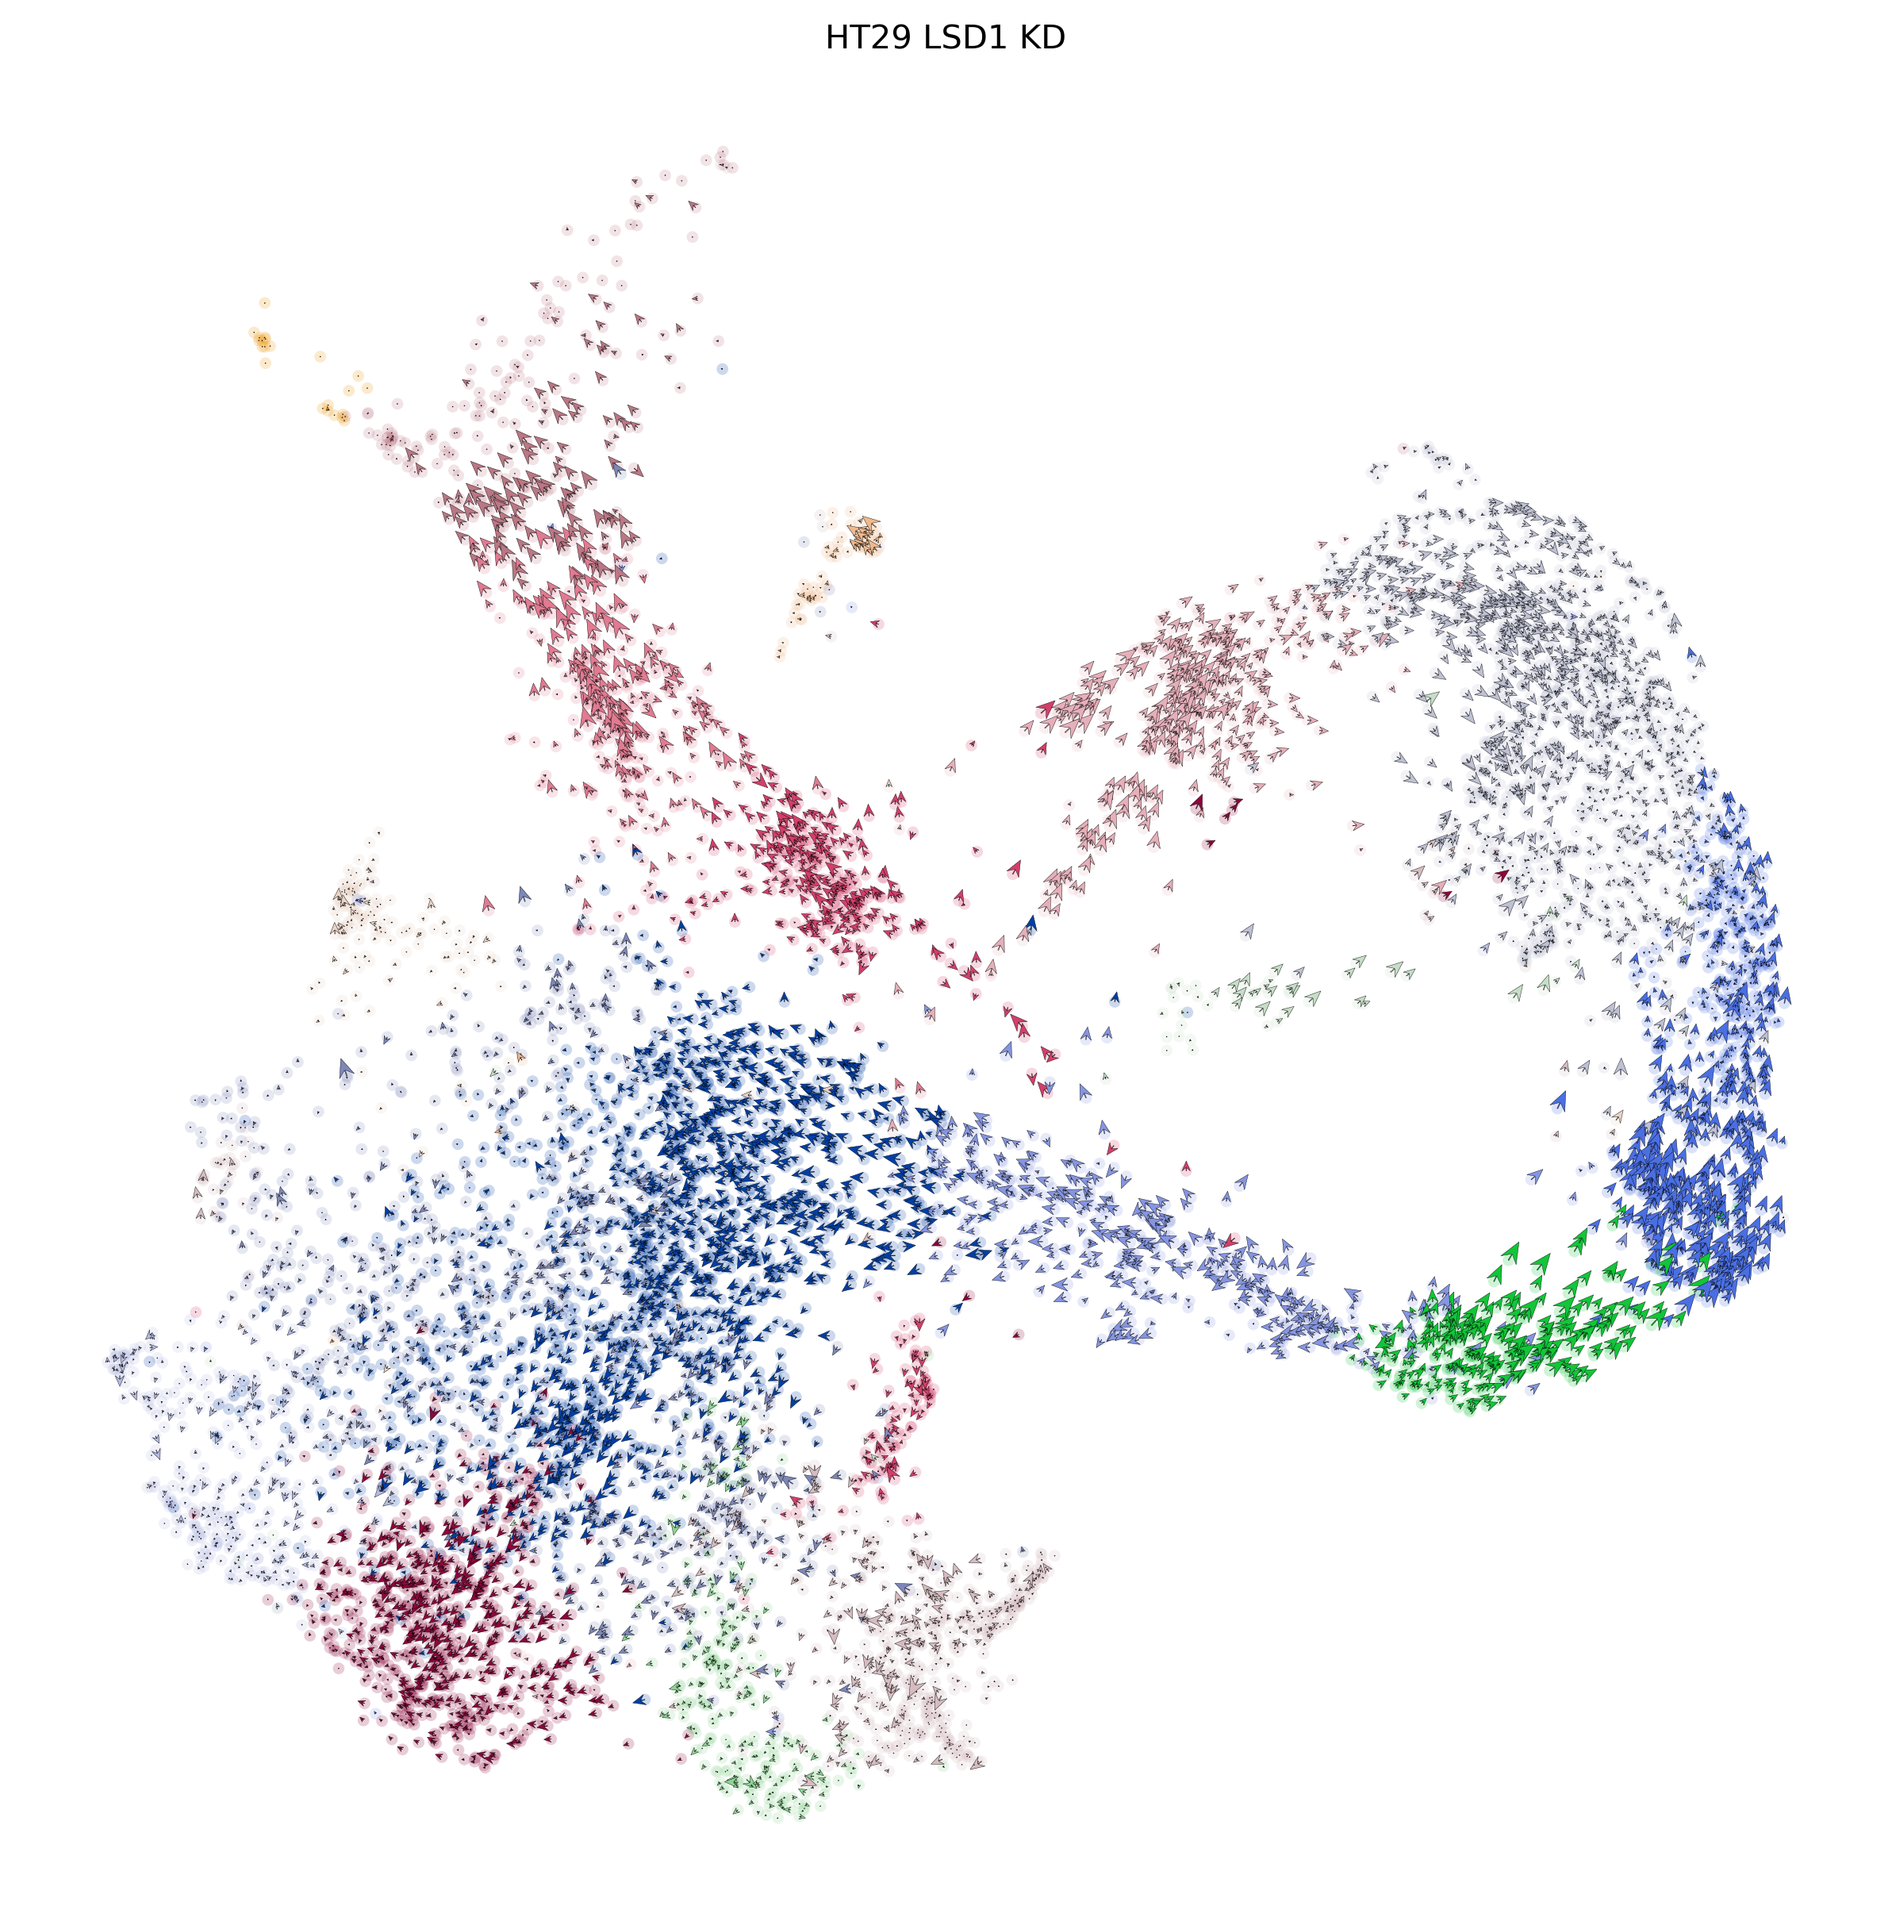
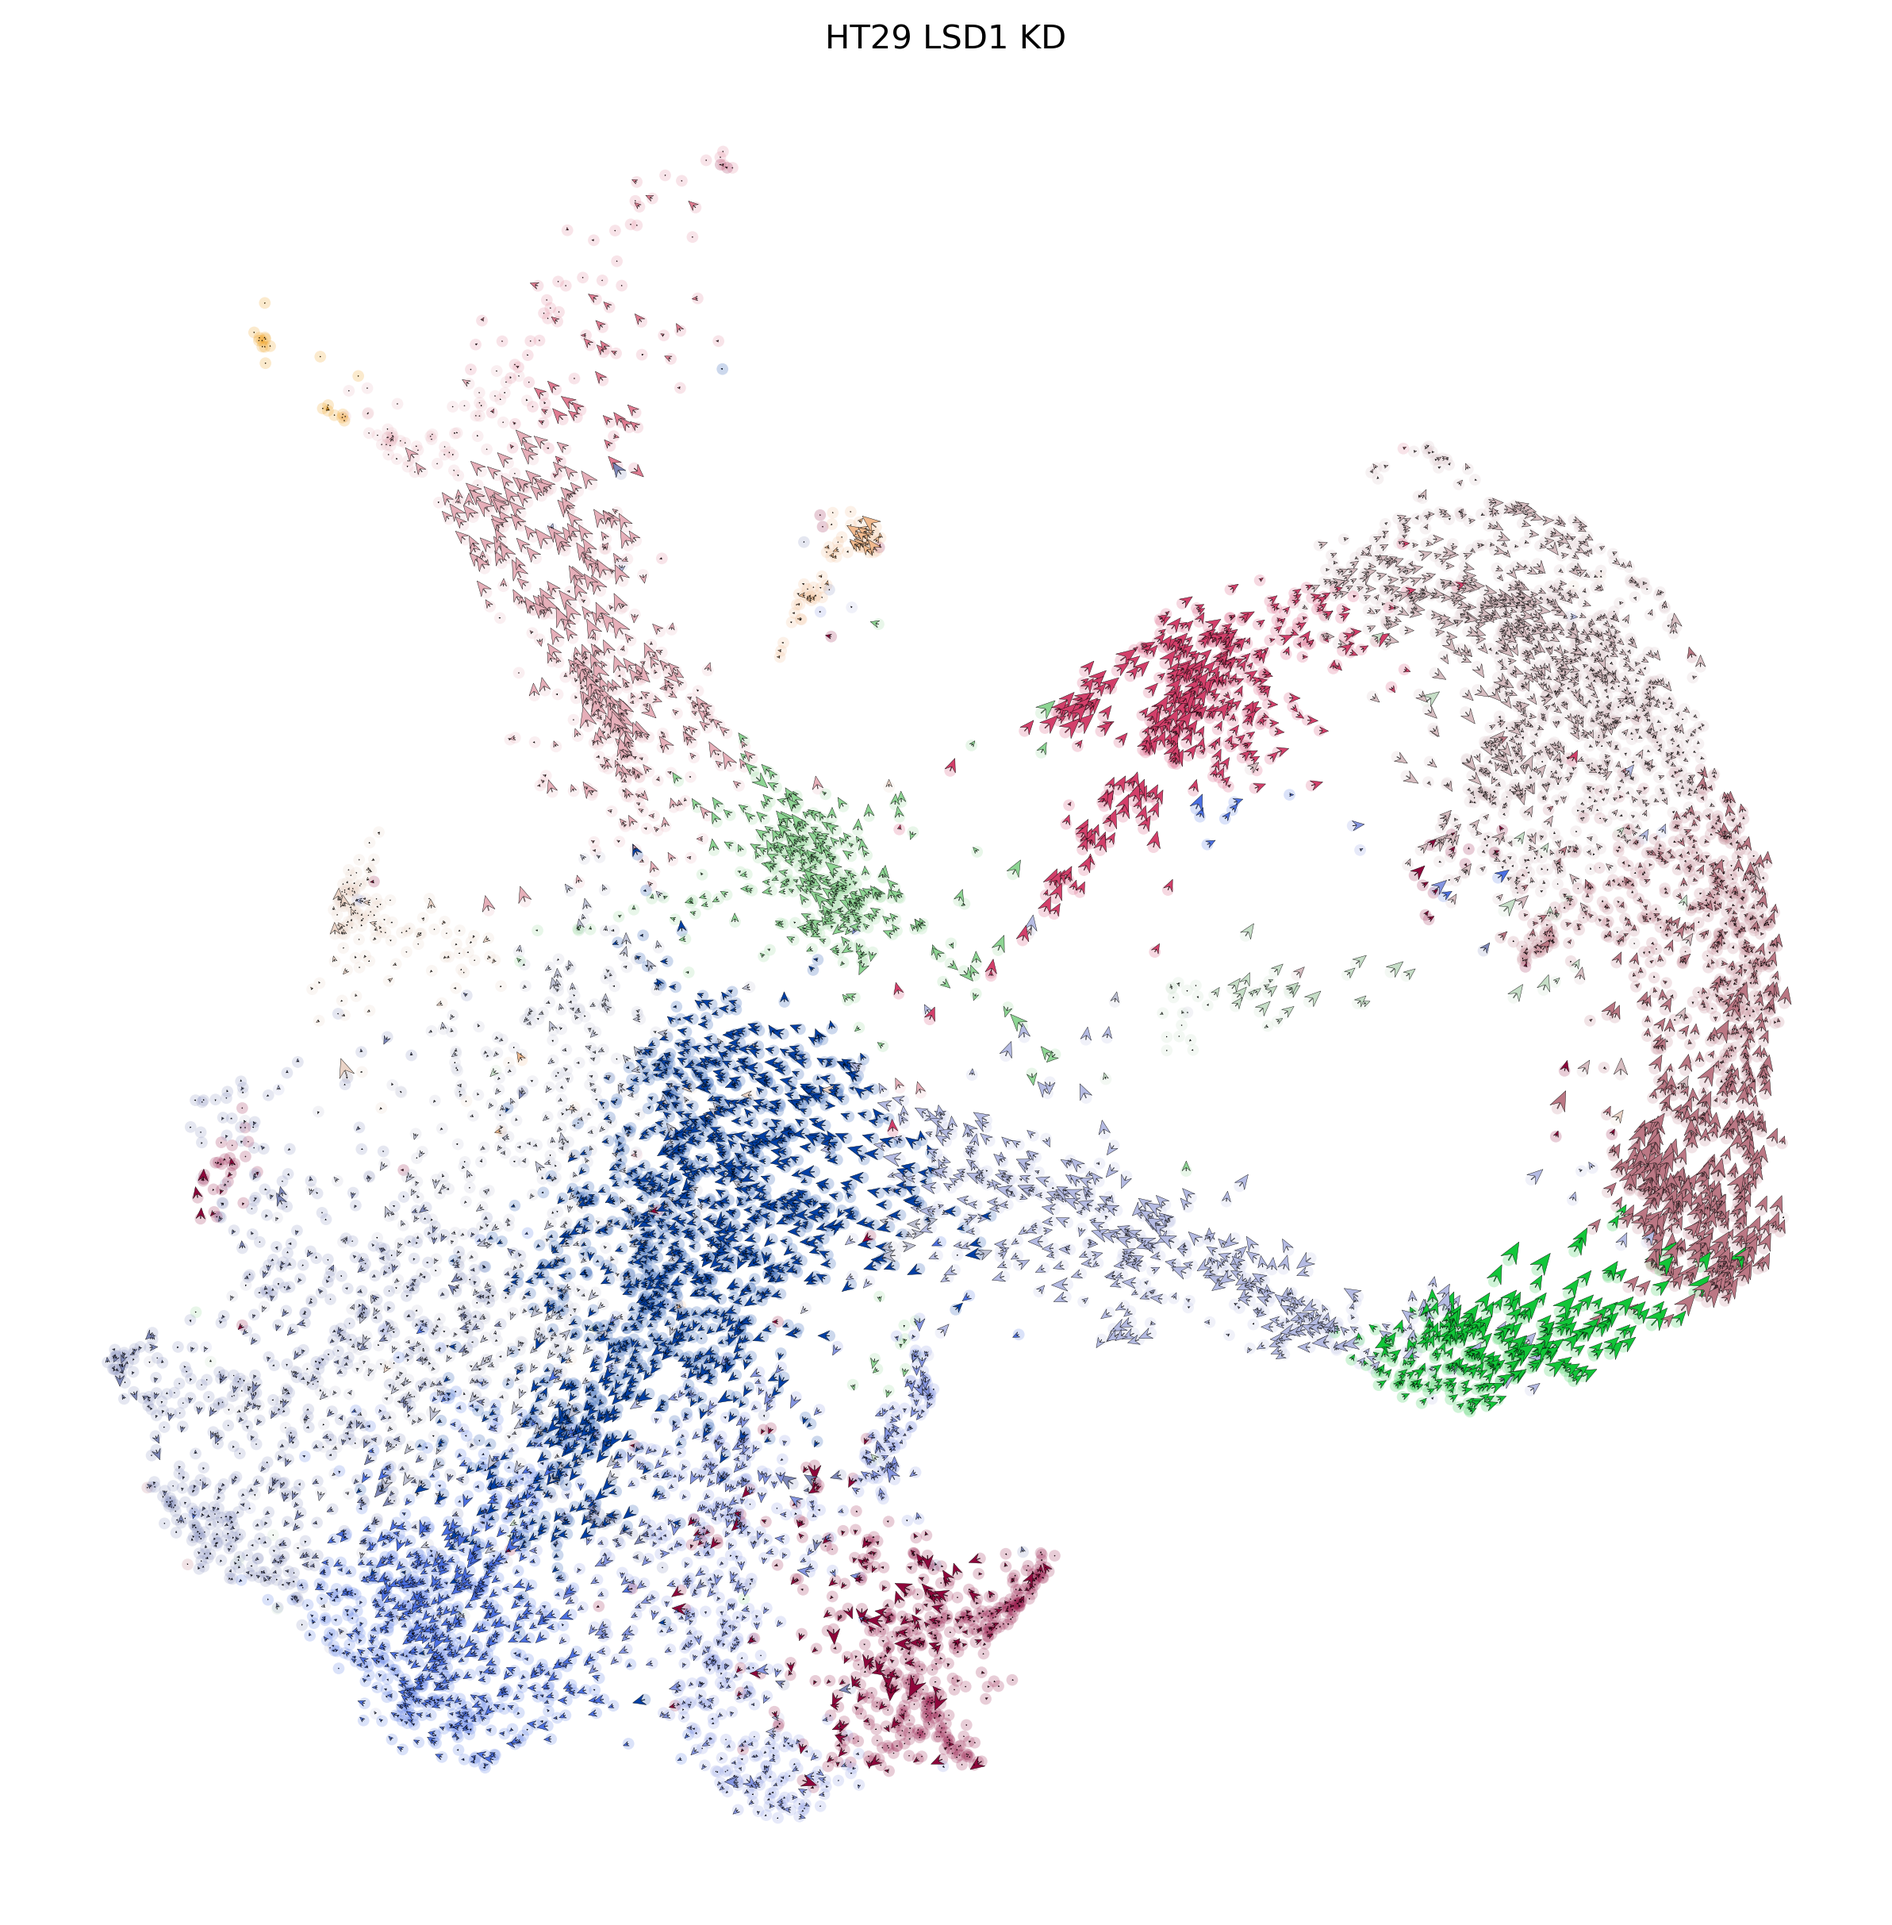
updating code for dynamical velocity analysis

diff --git a/scripts/scvelo.py b/scripts/scvelo.py
@@ -283,10 +283,10 @@ for value in samples.values():
 
 ## Find gene importance.
 
-model = cr.ul.models.GamMGCVModel(adata, n_splines=5, sp=100)
-
 for value in samples.values():
     cr.tl.gene_importance(
+
+
 
 ## PAGA Pie
 
@@ -472,6 +472,39 @@ for key,value in samples.items():
       size = 50, show = False, dpi = 300, figsize = (10, 10),
       title = key, save = '{}.png'.format(key)
     )
+
+## Plot velocity speed and coherence.
+
+outdir = 'results/trajectory/velocity_dynamical/velocity_speed_coherence'
+if not os.path.exists(outdir):
+    os.makedirs(outdir)
+
+scv.settings.figdir = outdir
+
+metrics = ['velocity_length', 'velocity_confidence']
+for key,value in samples.items():
+    scv.tl.velocity_confidence(value)
+    scv.pl.scatter(
+      value, c = metrics, cmap = 'coolwarm', perc=[5, 95],
+      size = 50, show = False, dpi = 300, figsize = (10, 10),
+      save = '{}.png'.format(key)
+    )
+
+## Plot cell connections.
+
+outdir = 'results/trajectory/velocity_dynamical/velocity_connections'
+if not os.path.exists(outdir):
+    os.makedirs(outdir)
+
+scv.settings.figdir = outdir
+
+for key,value in samples.items():
+    scv.pl.velocity_graph(
+      value, threshold = .2, size = 50, show = False, dpi = 300,
+      figsize = (10, 10), color = clusters,
+      save = '{}.png'.format(key), title = key
+    )
+
 
 ## Top drivers.
 
